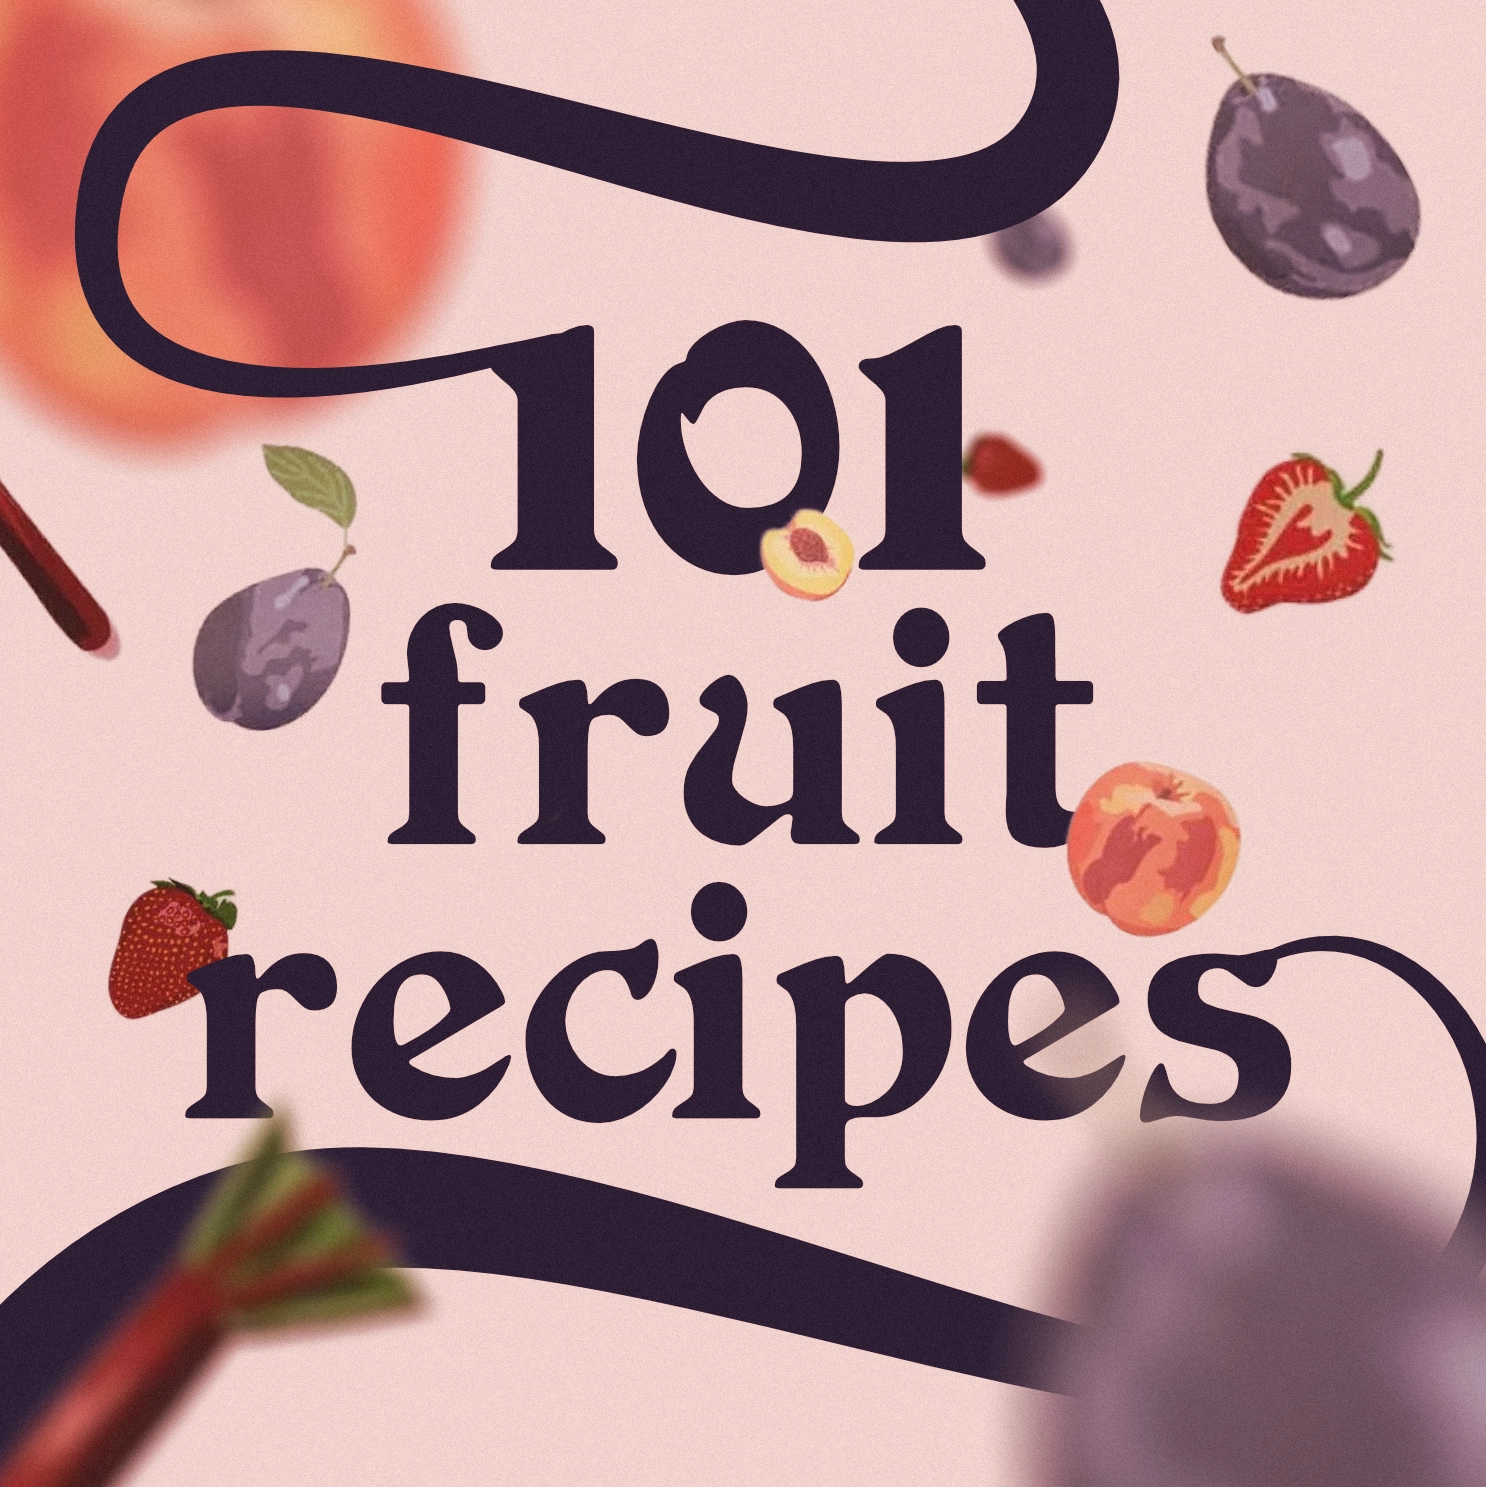
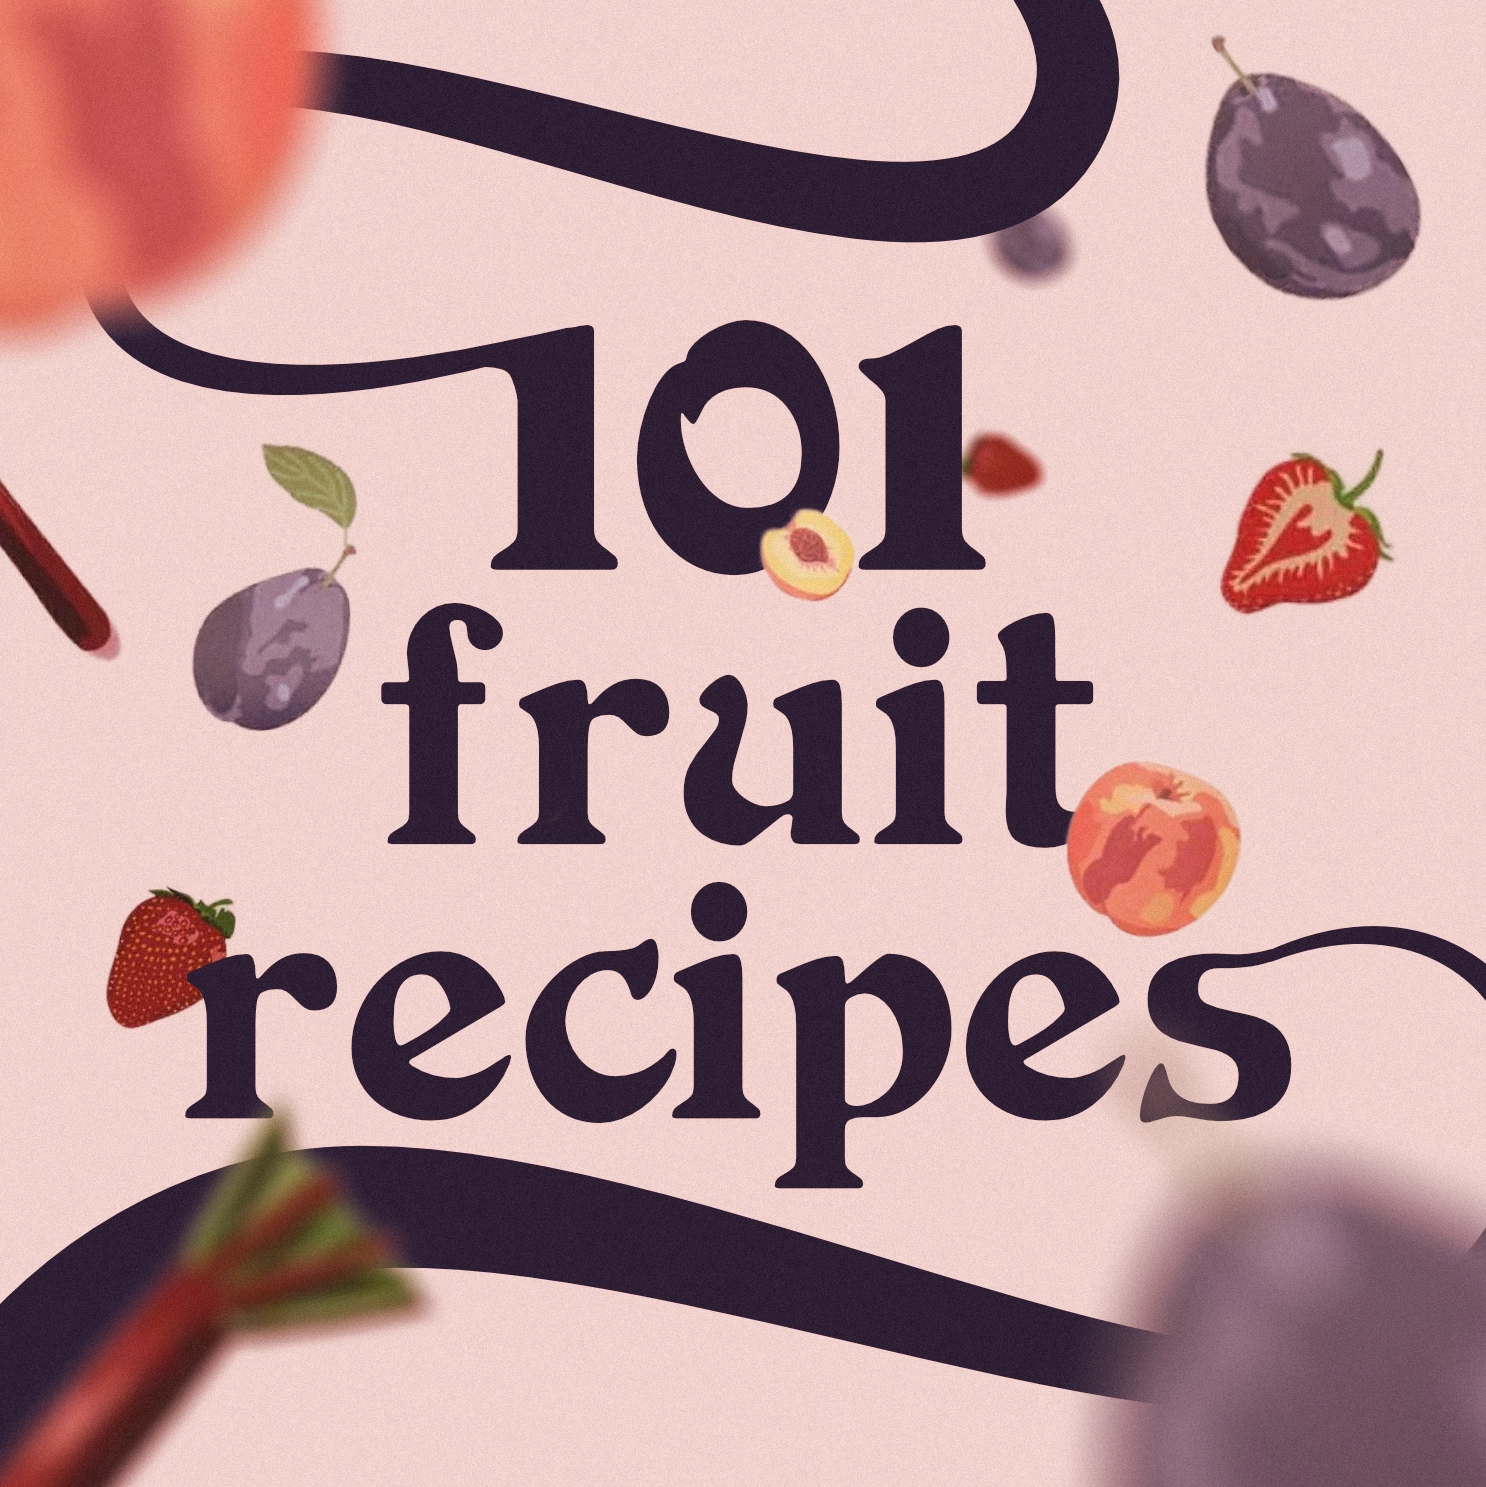
changed the image on 1010

diff --git a/docs/analysis.html b/docs/analysis.html
@@ -219,7 +219,7 @@ present complex research on digital rights, security, and healthcare access for 
 
     <div class="swiper-slide">
       <div class="image-holder">
-        <a href="cookbook.html" title="portfolio details"><img src="/assets/front-1012.webp" alt="101 image"
+        <a href="cookbook.html" title="portfolio details"><img src="/assets/front-101.webp" alt="101 image"
             class="img-fluid"></a>
       </div>
     </div>

diff --git a/docs/decade.html b/docs/decade.html
@@ -169,7 +169,7 @@ on the activism, transparency, and human rights of sex workers in Macedonia.</p>
 
     <div class="swiper-slide">
       <div class="image-holder">
-        <a href="cookbook.html" title="portfolio details"><img src="/assets/front-1012.webp" alt="101 image"
+        <a href="cookbook.html" title="portfolio details"><img src="/assets/front-101.webp" alt="101 image"
             class="img-fluid"></a>
       </div>
     </div>

diff --git a/docs/duck.html b/docs/duck.html
@@ -200,7 +200,7 @@ thoughtfully made, accessible without being mass-produced, and suited to urban l
 
     <div class="swiper-slide">
       <div class="image-holder">
-        <a href="cookbook.html" title="portfolio details"><img src="/assets/front-1012.webp" alt="101 image"
+        <a href="cookbook.html" title="portfolio details"><img src="/assets/front-101.webp" alt="101 image"
             class="img-fluid"></a>
       </div>
     </div>

diff --git a/docs/litter.html b/docs/litter.html
@@ -158,7 +158,7 @@ clean aesthetic that appeals to cat owners seeking the best for their feline com
 
     <div class="swiper-slide">
       <div class="image-holder">
-        <a href="cookbook.html" title="portfolio details"><img src="/assets/front-1012.webp" alt="101 image"
+        <a href="cookbook.html" title="portfolio details"><img src="/assets/front-101.webp" alt="101 image"
             class="img-fluid"></a>
       </div>
     </div>

diff --git a/docs/bakery.html b/docs/bakery.html
@@ -201,7 +201,7 @@ tones to reflect the bakery’s brand identity.</p>
 
     <div class="swiper-slide">
       <div class="image-holder">
-        <a href="cookbook.html" title="portfolio details"><img src="/assets/front-1012.webp" alt="101 image"
+        <a href="cookbook.html" title="portfolio details"><img src="/assets/front-101.webp" alt="101 image"
             class="img-fluid"></a>
       </div>
     </div>

diff --git a/docs/c3.html b/docs/c3.html
@@ -338,7 +338,7 @@ mapping, and cognitive load in automotive UX.</p>
 
     <div class="swiper-slide">
       <div class="image-holder">
-        <a href="cookbook.html" title="portfolio details"><img src="/assets/front-1012.webp" alt="101 image"
+        <a href="cookbook.html" title="portfolio details"><img src="/assets/front-101.webp" alt="101 image"
             class="img-fluid"></a>
       </div>
     </div>

diff --git a/docs/americana.html b/docs/americana.html
@@ -188,7 +188,7 @@ old-fashioned Americana illustrations.</p>
 
     <div class="swiper-slide">
       <div class="image-holder">
-        <a href="cookbook.html" title="portfolio details"><img src="/assets/front-1012.webp" alt="101 image"
+        <a href="cookbook.html" title="portfolio details"><img src="/assets/front-101.webp" alt="101 image"
             class="img-fluid"></a>
       </div>
     </div>

diff --git a/docs/muff.html b/docs/muff.html
@@ -176,7 +176,7 @@ Blender, edited in DaVinci Resolve.</p>
 
     <div class="swiper-slide">
       <div class="image-holder">
-        <a href="cookbook.html" title="portfolio details"><img src="/assets/front-1012.webp" alt="101 image"
+        <a href="cookbook.html" title="portfolio details"><img src="/assets/front-101.webp" alt="101 image"
             class="img-fluid"></a>
       </div>
     </div>

diff --git a/docs/lost-and-found.html b/docs/lost-and-found.html
@@ -202,7 +202,7 @@ media.</p>
 
     <div class="swiper-slide">
       <div class="image-holder">
-        <a href="cookbook.html" title="portfolio details"><img src="/assets/front-1012.webp" alt="101 image"
+        <a href="cookbook.html" title="portfolio details"><img src="/assets/front-101.webp" alt="101 image"
             class="img-fluid"></a>
       </div>
     </div>

diff --git a/docs/recipes-motion.html b/docs/recipes-motion.html
@@ -153,7 +153,7 @@ Eberly</p>
 
     <div class="swiper-slide">
       <div class="image-holder">
-        <a href="cookbook.html" title="portfolio details"><img src="/assets/front-1012.webp" alt="101 image"
+        <a href="cookbook.html" title="portfolio details"><img src="/assets/front-101.webp" alt="101 image"
             class="img-fluid"></a>
       </div>
     </div>

diff --git a/docs/heart.html b/docs/heart.html
@@ -152,7 +152,7 @@
 
     <div class="swiper-slide">
       <div class="image-holder">
-        <a href="cookbook.html" title="portfolio details"><img src="/assets/front-1012.webp" alt="101 image"
+        <a href="cookbook.html" title="portfolio details"><img src="/assets/front-101.webp" alt="101 image"
             class="img-fluid"></a>
       </div>
     </div>
